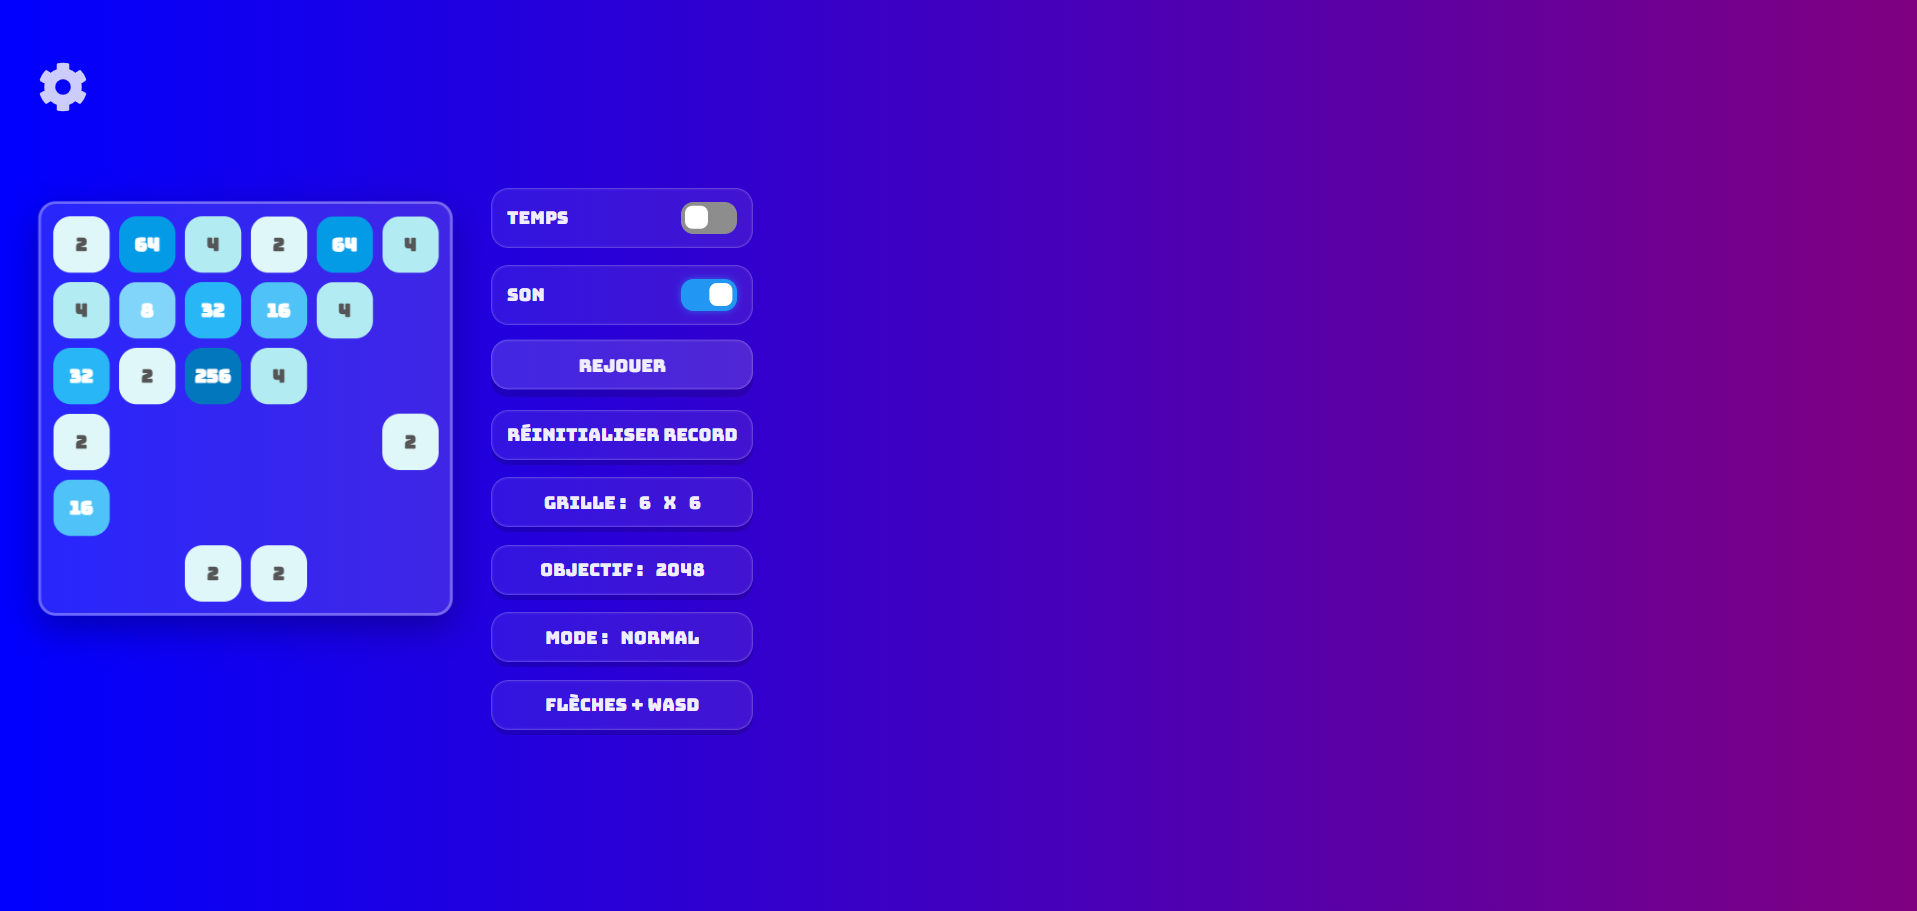
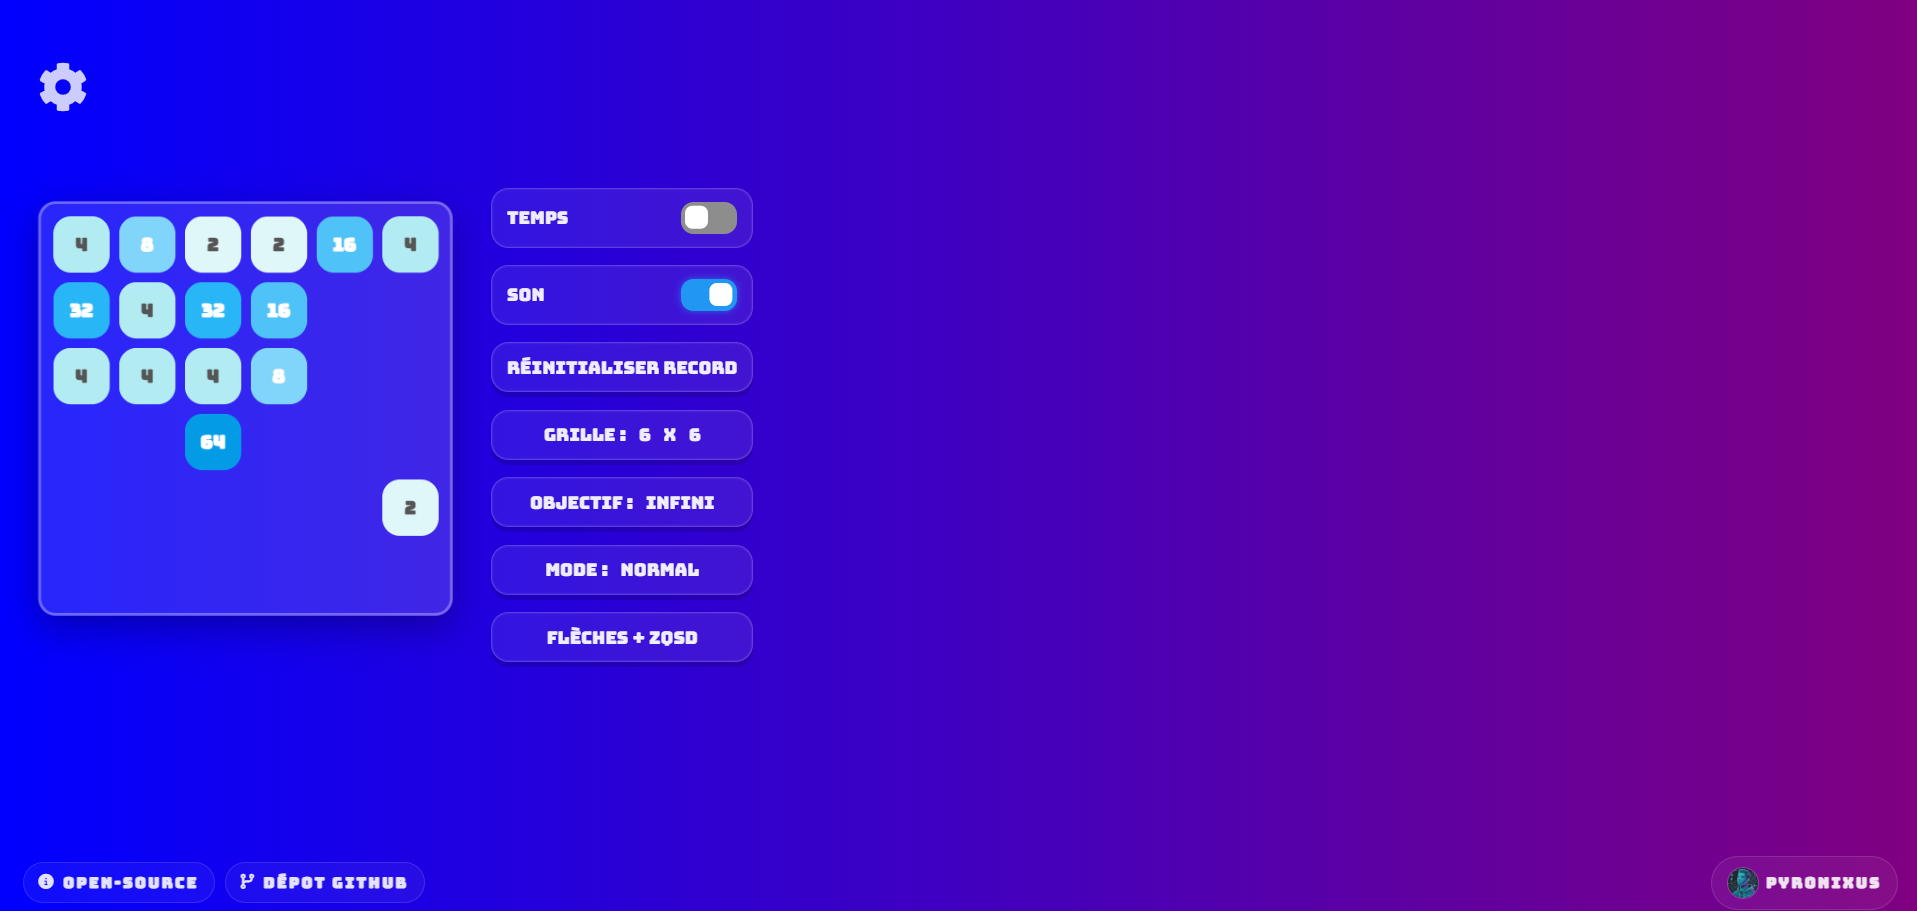
update previews

diff --git a/README.md b/README.md
@@ -42,7 +42,7 @@ Accédez aux options via l'icône **paramètres** pour personnaliser votre expé
 - **Grille** : Modifier la taille de la grille (2x2, 4x4, 5x5, 6x6, etc.).
 - **Objectifs** : Définir la tuile cible pour valider un record.
 - **Réinitialisation** : Remettre à zéro vos records personnels enregistrés dans le navigateur.
-- **_Mode de Jeu_** : Jouez avec des règles différentes dans des modes de jeux épiques : **Normal**, **Chrono**, **Négatifs**, **Gravité**, **Invisible**, **Zen** et **_Hard_** (Seuls les 2 premiers sont déja implémentés) !
+- **_Mode de Jeu_** : Jouez avec des règles différentes dans des modes de jeux épiques : **Normal**, **Chrono**, **Négatifs**, **Gravité [Bientôt]**, **Invisible [Bientôt]**, **Zen [Bientôt]** et **_Hard_ [Bientôt]** !
 
 ---
 
